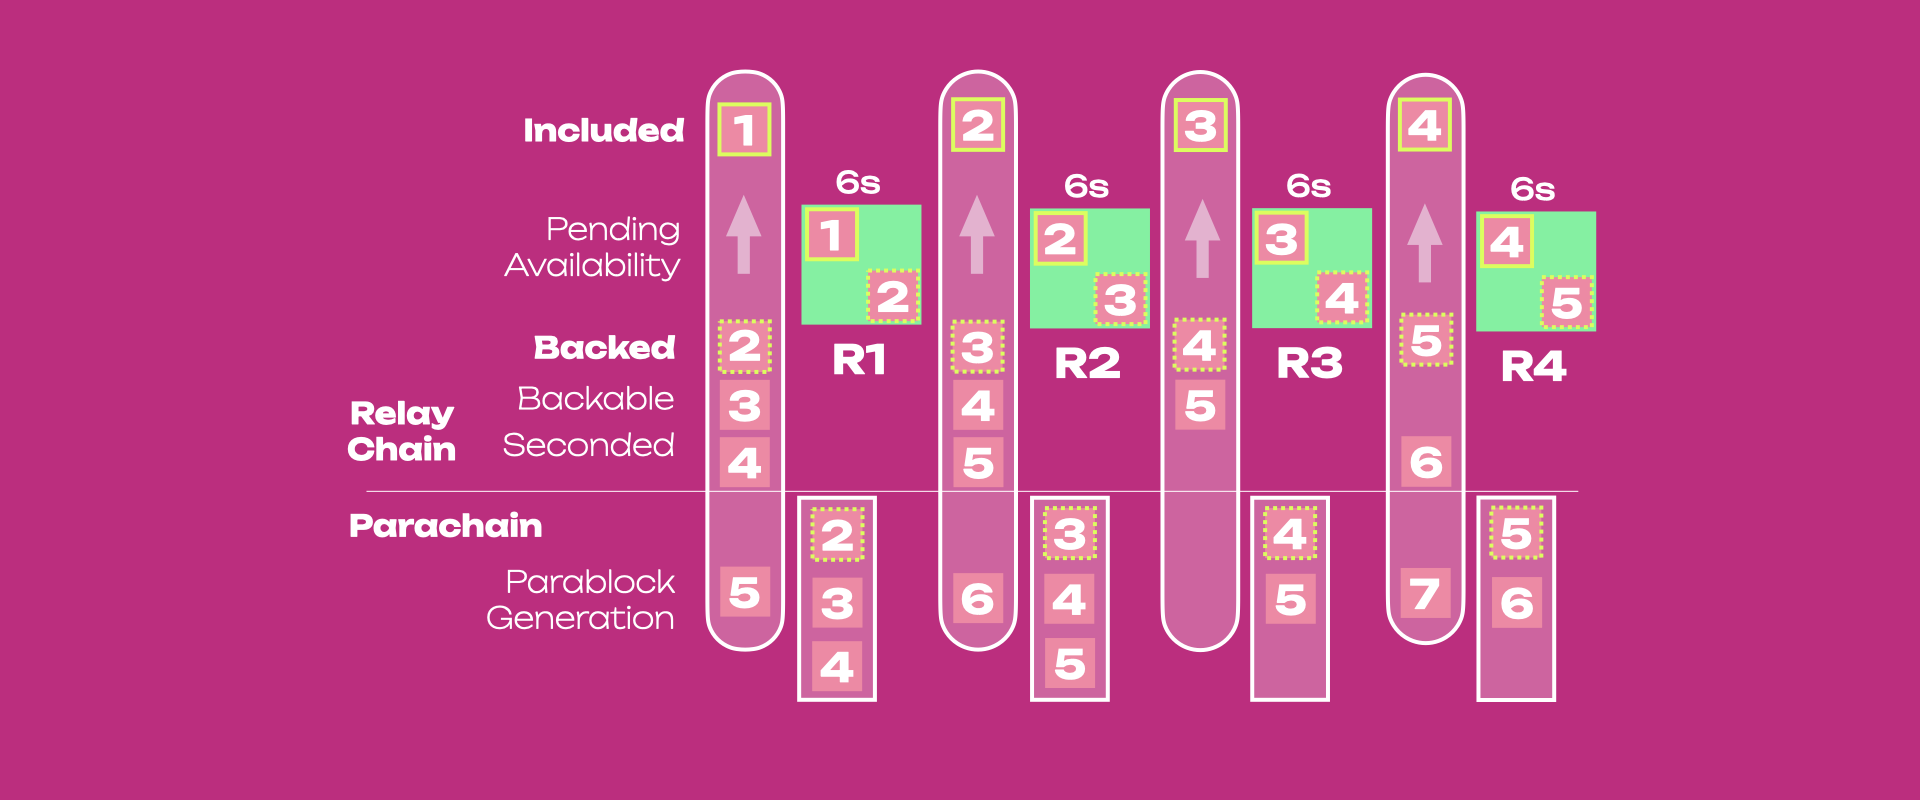
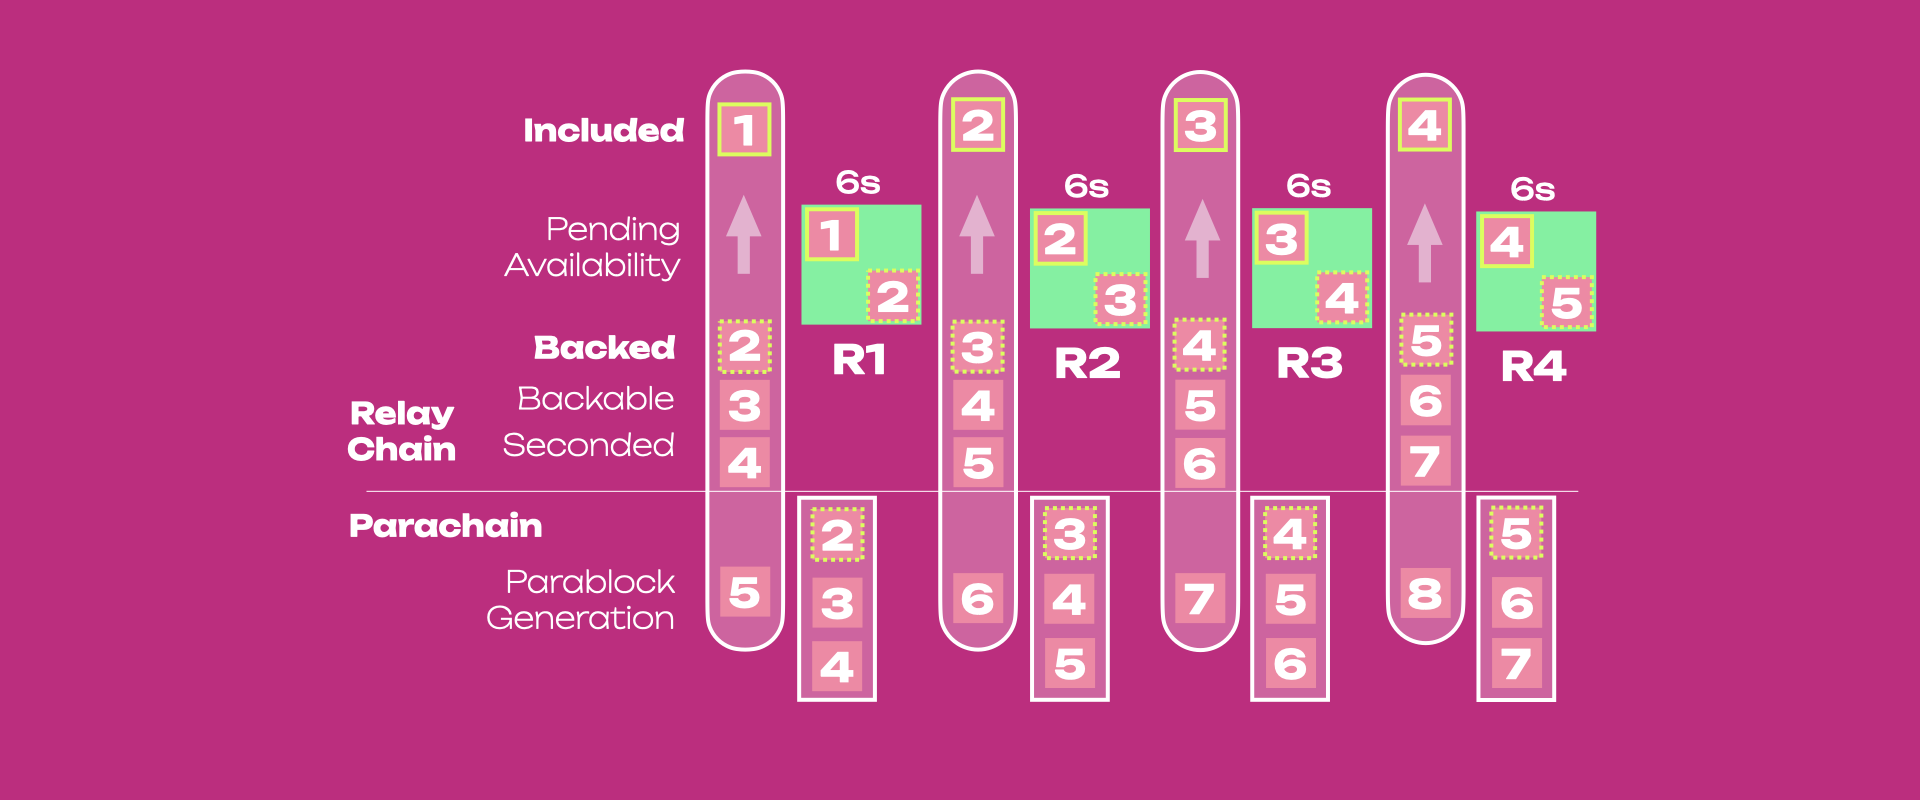
edits figure
edits parameters

diff --git a/docs/learn/learn-async-backing.md b/docs/learn/learn-async-backing.md
@@ -73,10 +73,11 @@ The diagram below combines the previous diagrams and adds some context about blo
 ![sync-backing-fill-legend](../assets/sync-backing-fill-legend.png)
 
 Because P2 is rushing to be backed into R2 in 6 seconds, there are less than 6 seconds (~ 0.5
-seconds) to fill it. In this scenario, P2 is filled up to 70%. After the inclusion of P2 into R3,
-Parablock 3 (P3) will be generated, filled to 50%, and backed into R4 in 6 seconds. This shows that,
-if blockspace demand decreases, collators will always have 0.5 seconds to fill up blocks, leading to
-blocks that contain less and less data.
+seconds) to fill it, since the other 5.5 seconds are needed to get the block backed on chain. In
+this scenario, P2 is filled up to 70%. After the inclusion of P2 into R3, Parablock 3 (P3) will be
+generated, filled to 50%, and backed into R4 in 6 seconds. This shows that, if blockspace demand
+decreases, collators will always have 0.5 seconds to fill up blocks, leading to blocks that contain
+less and less data.
 
 The parablock generation and backing are bound together within a six-second window that limits the
 amount of data a collator can add to each parablock. Essentially, a parablock is limited to the
@@ -142,8 +143,7 @@ new parablocks are generated before the previous parablock has been included.
 [Contextual execution](#contextual-execution) is obtained by a relay parent (not necessarily the
 latest block) and the latest included parablock ancestor in the
 [unincluded segment](#unincluded-segments). In 24 seconds, four parablocks, P1 to P4, have been
-included in the relay chain, P5 has been backed, and two more blocks have been filled and pushed to
-the unincluded segment, ready to be backed. The unincluded segment is now 2/3 filled.
+included in the relay chain, and P5 has been backed.
 
 The diagram below shows parablocks on their way from being generated to being backed and included
 into the relay chain in the context of asynchronous backing.
@@ -174,13 +174,15 @@ In this scenario, blockspace demand decreases from P3 to P5. In theory, the next
 filled in >2s seconds while P4 is included and P5 is backed. Collators could make better use of
 blockspace, including more data by increasing block generation time in a period of lower demand.
 Note that even if a collator has >2 seconds to produce a block, the validator will still have less
-than 6 seconds (~2 seconds) to check it.
+than 6 seconds (~2 seconds) to check it. So, if collators take >2 seconds to generate blocks the
+unincluded segment will shrink (and there will be less parablocks in the pipeline), while if they
+take <2 seconds the segment will elongate until it reaches the `maximum capacity` (and there will be
+less parablocks in the pipeline).
 
-In case blockspace demand increases after the generation of P6, collators could generate P7 and P8
-within a 6-second window due to the unincluded segment being 2/3 filled (see below). However, if
-demand stays high after P8, collators will only be able to generate parablocks every 6 seconds as
-the unincluded segment is emptied every 6 seconds and its maximum capacity of 3/3 parablocks has
-been reached.
+For example, in case increased blockspace demand after the generation of P6, collators could
+generate P7 and P8 within a 6-second window due to the unincluded segment being 2/3 filled (see
+below). However, if demand stays high after P8, collators will only be able to generate parablocks
+every 6 seconds as validators can back parablocks every 6 seconds.
 
 ![async-backing-fill-scenario2](../assets/async-backing-fill-scenario2.png)
 
@@ -211,22 +213,21 @@ any fork from any parachain.
 The Prospective Parachains subsystem communicates with other subsystems in the validation process,
 such as the Backing subsystem, once a candidate block has been seconded.
 
-### Further Benefits of Async Backing
+### Synchronous Backing as corner case of Asynchronous Backing
 
-Asynchronous backing also introduces a parameter to define the maximum number of ancestor blocks
-within the unincluded segment. This allows for a parablock to be backed later, enabling more
-computational and storage time per block. Decoupling collation (candidate generation) and backing
-also allows for more execution time while citing a lower validation time.
+Two parameters of asynchronous backing can be controlled by
+[Governance](./learn-polkadot-opengov.md):
 
-Two parameters can be controlled by governance:
+- [`allowed_ancestry_len`](https://github.com/paritytech/polkadot-sdk/blob/f204e3264f945c33b4cea18a49f7232c180b07c5/polkadot/primitives/src/vstaging/mod.rs#L54):
+  the number of parachain blocks a collator can produce that are not yet included in the relay
+  chain.
+- [`max_candidate_depth`](https://github.com/paritytech/polkadot-sdk/blob/f204e3264f945c33b4cea18a49f7232c180b07c5/polkadot/primitives/src/vstaging/mod.rs#L49):
+  the oldest relay chain parent a parachain block can be built on top of.
 
-- [`allowed_ancestry_len`](https://github.com/paritytech/polkadot-sdk/blob/f204e3264f945c33b4cea18a49f7232c180b07c5/polkadot/primitives/src/vstaging/mod.rs#L54) -
-  How many ancestors of a relay parent are allowed to build candidates on top of. When building a
-  new parablock for the unincluded segment, this is how the parablock decides which relay parent to
-  derive context from.
-- [`max_candidate_depth`](https://github.com/paritytech/polkadot-sdk/blob/f204e3264f945c33b4cea18a49f7232c180b07c5/polkadot/primitives/src/vstaging/mod.rs#L49) -
-  The maximum amount of candidates between the latest parablock and relay parent ancestor. Any
-  blocks that exceed this limit will be ignored by the validators.
+Values of zero for both correspond to synchronous backing: `allowed_ancestry_len = 0` means there
+can be only 1 parablock at a time on the conveyor belt, `max_candidate_depth = 0` means a parachain
+block can be built only on the latest relay parent for that parachain. Those two parameters will be
+initially set to 3 and 2, respectively.
 
 ## Terminology
 
